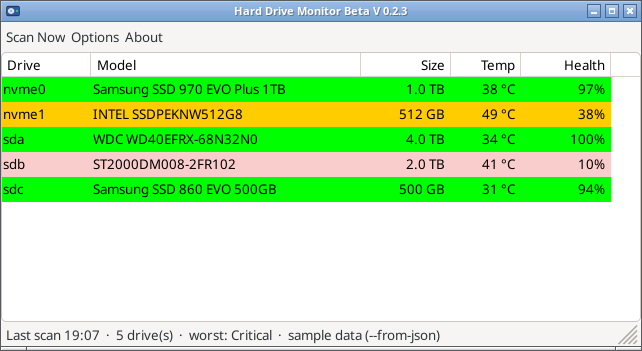
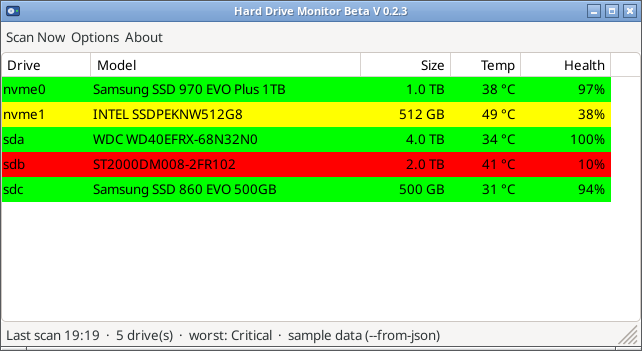
GUI: shared status palette (OK #00FF00, Warning #FFFF00, Critical #FF0000) with pinned test; cap CI GUI build parallelism
- src/palette.hpp holds the exact colours and tray icon geometry (filled circle
  at 2,2 size 28 on a transparent 32 px icon); gui_model and hdmon-gui use it.
- Rows: OK #00FF00, Warning #FFFF00, Critical #FF0000, unknown #E4E6EA, black text.
- Tray/status: OK #00FF00, Warning #FFFF00, Critical #FF0000, unknown #8A8F98.
- CI: 'cmake --build --parallel' with Makefiles is unbounded -j and got the Linux
  runner killed while building wx; limit to 4 jobs.
- Screenshots regenerated.

Changed region(s): [[0.0, 0.4274, 0.9657, 0.5128], [0.0, 0.2849, 0.9657, 0.3704], [0.1246, 0.9402, 0.1558, 0.9687]]

diff --git a/tests/test_gui_model.cpp b/tests/test_gui_model.cpp
@@ -32,10 +32,10 @@ TEST_CASE("tray colour = worst drive, VB order UNKNOWN < OK < WARNING < CRITICAL
     CHECK(g::tray_status({fake("CRITICAL", 10), fake("WARNING", 50), fake("OK", 100)}) == "CRITICAL");
     CHECK(g::tray_status(fixture_results()) == "CRITICAL");                 // sdb in the fixtures
     CHECK(g::status_color("OK") == "#00FF00");
-    CHECK(g::status_color("WARNING") == "#FFCC00");
-    CHECK(g::status_color("CRITICAL") == "#D0312D");
+    CHECK(g::status_color("WARNING") == "#FFFF00");
+    CHECK(g::status_color("CRITICAL") == "#FF0000");
     CHECK(g::status_color("UNKNOWN") == "#8A8F98");
-    CHECK(g::row_tint("CRITICAL") == "#F8CDCB");
+    CHECK(g::row_tint("CRITICAL") == "#FF0000");
     CHECK(g::row_tint("UNKNOWN") == "#E4E6EA");
     CHECK(g::status_label("UNKNOWN") == "No SMART data");
 }
@@ -161,4 +161,38 @@ TEST_CASE("GUI update assets") {
     CHECK(ends_with(update_state_path("/x/history.db", UpdateFlavor::Gui), "update-state-gui.json"));
     CHECK(ends_with(update_state_path("/x/history.db"), "update-state.json"));
 }
+}
+
+TEST_CASE("palette: exact status colours are pinned") {
+    namespace p = hdmon::palette;
+    auto eq = [](p::Rgb c, int r, int gg, int b) { return c.r == r && c.g == gg && c.b == b; };
+    // Tray circle / status
+    CHECK(std::string(p::STATUS_OK) == "#00FF00");
+    CHECK(std::string(p::STATUS_WARNING) == "#FFFF00");
+    CHECK(std::string(p::STATUS_CRITICAL) == "#FF0000");
+    CHECK(std::string(p::STATUS_UNKNOWN) == "#8A8F98");
+    CHECK(eq(p::to_rgb(p::STATUS_OK), 0, 255, 0));
+    CHECK(eq(p::to_rgb(p::STATUS_WARNING), 255, 255, 0));
+    CHECK(eq(p::to_rgb(p::ROW_WARNING), 255, 255, 0));
+    CHECK(eq(p::to_rgb(p::ROW_OK), 0, 255, 0));
+    CHECK(eq(p::to_rgb(p::STATUS_CRITICAL), 255, 0, 0));
+    CHECK(eq(p::to_rgb(p::STATUS_UNKNOWN), 138, 143, 152));
+    // Row tints, black text
+    CHECK(std::string(p::ROW_OK) == "#00FF00");
+    CHECK(std::string(p::ROW_WARNING) == "#FFFF00");
+    CHECK(std::string(p::ROW_CRITICAL) == "#FF0000");
+    CHECK(std::string(p::ROW_UNKNOWN) == "#E4E6EA");
+    CHECK(eq(p::to_rgb(p::ROW_CRITICAL), 255, 0, 0));
+    CHECK(eq(p::to_rgb(p::ROW_UNKNOWN), 228, 230, 234));
+    CHECK(eq(p::to_rgb(p::ROW_TEXT), 0, 0, 0));
+    // GUI helpers go through the palette
+    CHECK(g::status_color("CRITICAL") == p::STATUS_CRITICAL);
+    CHECK(g::row_tint("CRITICAL") == p::ROW_CRITICAL);
+    CHECK(g::status_color("") == p::STATUS_UNKNOWN);
+    CHECK(g::row_tint("") == p::ROW_UNKNOWN);
+    // Tray icon geometry (VB FillEllipse 2,2,28,28 on 32 px)
+    CHECK(p::ICON_SIZE == 32);
+    CHECK(p::CIRCLE_X == 2);
+    CHECK(p::CIRCLE_Y == 2);
+    CHECK(p::CIRCLE_D == 28);
 }

diff --git a/gui/hdmon_gui.cpp b/gui/hdmon_gui.cpp
@@ -38,20 +38,26 @@ namespace g = hdmon::gui;
 static const char* GUI_VERSION = HDMON_GUI_VERSION;   // "Beta V x.y.z" (same as the CLI)
 static wxString U(const std::string& s) { return wxString::FromUTF8(s.c_str()); }
 static std::string S(const wxString& s) { return std::string(s.utf8_str()); }
-static wxColour C(const std::string& hex) { return wxColour(U(hex)); }
+static wxColour C(const std::string& hex) {
+    auto c = hdmon::palette::to_rgb(hex.c_str());   // exact palette RGB, no theme adjustment
+    return wxColour(c.r, c.g, c.b);
+}
 
-// Plain filled circle (VB TrayIcons.Circle: 28 px circle in a 32 px icon), anti-aliased by hand.
-static wxBitmap circle_bitmap(const std::string& hex, int size = 32) {
+// Plain filled circle, exactly like VB TrayIcons.Circle: FillEllipse(2, 2, 28, 28) on a transparent
+// 32 px bitmap with SmoothingMode.AntiAlias. Colour is the exact palette RGB; only edge alpha varies.
+static wxBitmap circle_bitmap(const std::string& hex) {
+    namespace p = hdmon::palette;
     wxColour c = C(hex);
+    const int size = p::ICON_SIZE;
     wxImage img(size, size);
     img.InitAlpha();
-    double r = size * 14.0 / 32.0, cx = size / 2.0, cy = size / 2.0;
+    const double r = p::CIRCLE_D / 2.0, cx = p::CIRCLE_X + r, cy = p::CIRCLE_Y + r;
     for (int y = 0; y < size; ++y)
         for (int x = 0; x < size; ++x) {
             double dx = x + 0.5 - cx, dy = y + 0.5 - cy;
             double a = std::min(1.0, std::max(0.0, r + 0.5 - std::sqrt(dx * dx + dy * dy)));
             img.SetRGB(x, y, c.Red(), c.Green(), c.Blue());
-            img.SetAlpha(x, y, static_cast<unsigned char>(a * 255));
+            img.SetAlpha(x, y, static_cast<unsigned char>(a * 255 + 0.5));
         }
     return wxBitmap(img);
 }
@@ -385,7 +391,7 @@ public:
             list_->SetItem(i, 3, U(g::temp_text(d)));
             list_->SetItem(i, 4, U(g::health_text(a)));
             list_->SetItemBackgroundColour(i, C(g::row_tint(a.status)));
-            list_->SetItemTextColour(i, *wxBLACK);
+            list_->SetItemTextColour(i, C(hdmon::palette::ROW_TEXT));
         }
         list_->Thaw();
     }

diff --git a/src/palette.hpp b/src/palette.hpp
@@ -1,0 +1,39 @@
+// Shared status palette (from the VB DiskMonitor, with Richard's critical red override).
+// Every component that shows a status colour as hex/RGB uses these values; do not restyle them.
+// The CLI terminal output uses the terminal's own 16 ANSI colours (red/green/yellow) and has no hex values.
+#pragma once
+#include <cstdint>
+
+namespace hdmon::palette {
+
+struct Rgb { std::uint8_t r, g, b; };
+
+// Tray circle / status colours.
+inline constexpr const char* STATUS_OK       = "#00FF00";
+inline constexpr const char* STATUS_WARNING  = "#FFFF00";
+inline constexpr const char* STATUS_CRITICAL = "#FF0000";
+inline constexpr const char* STATUS_UNKNOWN  = "#8A8F98";
+
+// Main-window row tints (always drawn with black text).
+inline constexpr const char* ROW_OK       = "#00FF00";
+inline constexpr const char* ROW_WARNING  = "#FFFF00";
+inline constexpr const char* ROW_CRITICAL = "#FF0000";
+inline constexpr const char* ROW_UNKNOWN  = "#E4E6EA";
+
+inline constexpr const char* ROW_TEXT = "#000000";
+
+// Tray icon geometry: filled, anti-aliased circle at (2,2) size 28 on a transparent 32 px icon.
+inline constexpr int ICON_SIZE = 32;
+inline constexpr int CIRCLE_X = 2, CIRCLE_Y = 2, CIRCLE_D = 28;
+
+// "#RRGGBB" -> Rgb (constexpr so the tests can pin the exact numbers).
+constexpr int hex_nibble(char c) {
+    return c >= '0' && c <= '9' ? c - '0' : c >= 'A' && c <= 'F' ? c - 'A' + 10 : c >= 'a' && c <= 'f' ? c - 'a' + 10 : 0;
+}
+constexpr Rgb to_rgb(const char* hex) {
+    return Rgb{static_cast<std::uint8_t>(hex_nibble(hex[1]) * 16 + hex_nibble(hex[2])),
+               static_cast<std::uint8_t>(hex_nibble(hex[3]) * 16 + hex_nibble(hex[4])),
+               static_cast<std::uint8_t>(hex_nibble(hex[5]) * 16 + hex_nibble(hex[6]))};
+}
+
+}  // namespace hdmon::palette

diff --git a/src/gui_model.hpp b/src/gui_model.hpp
@@ -1,6 +1,7 @@
 // Toolkit-free logic behind the hdmon-gui desktop app (port of the VB.NET DiskMonitor tray app).
 // Everything here is unit tested; gui/*.cpp only draws it.
 #pragma once
+#include "palette.hpp"
 #include <string>
 #include <utility>
 #include <vector>
@@ -14,8 +15,8 @@ namespace hdmon::gui {
 std::string tray_status(const std::vector<Result>& results);
 int gui_rank(const std::string& status);
 // Strong colour for the tray circle and the soft row tint (RGB hex, same values as the VB app).
-std::string status_color(const std::string& status);   // #00FF00 #FFCC00 #D0312D #8A8F98
-std::string row_tint(const std::string& status);       // #00FF00 #FFCC00 #F8CDCB #E4E6EA
+std::string status_color(const std::string& status);   // palette::STATUS_* (#00FF00 #FFFF00 #FF0000 #8A8F98)
+std::string row_tint(const std::string& status);       // palette::ROW_*    (#00FF00 #FFFF00 #FF0000 #E4E6EA)
 std::string status_label(const std::string& status);   // "OK", "Warning", "Critical", "No SMART data"
 
 // "C:" / "E: F:" (Windows letters), "/ /home" (mounts), "Disk 2" (Windows, no letter), "sda".

diff --git a/src/gui_model.cpp b/src/gui_model.cpp
@@ -22,17 +22,17 @@ std::string tray_status(const std::vector<Result>& results) {
 }
 
 std::string status_color(const std::string& s) {
-    if (s == "OK") return "#00FF00";
-    if (s == "WARNING") return "#FFCC00";
-    if (s == "CRITICAL") return "#D0312D";
-    return "#8A8F98";
+    if (s == "OK") return palette::STATUS_OK;
+    if (s == "WARNING") return palette::STATUS_WARNING;
+    if (s == "CRITICAL") return palette::STATUS_CRITICAL;
+    return palette::STATUS_UNKNOWN;
 }
 
 std::string row_tint(const std::string& s) {
-    if (s == "OK") return "#00FF00";
-    if (s == "WARNING") return "#FFCC00";
-    if (s == "CRITICAL") return "#F8CDCB";
-    return "#E4E6EA";
+    if (s == "OK") return palette::ROW_OK;
+    if (s == "WARNING") return palette::ROW_WARNING;
+    if (s == "CRITICAL") return palette::ROW_CRITICAL;
+    return palette::ROW_UNKNOWN;
 }
 
 std::string status_label(const std::string& s) {
